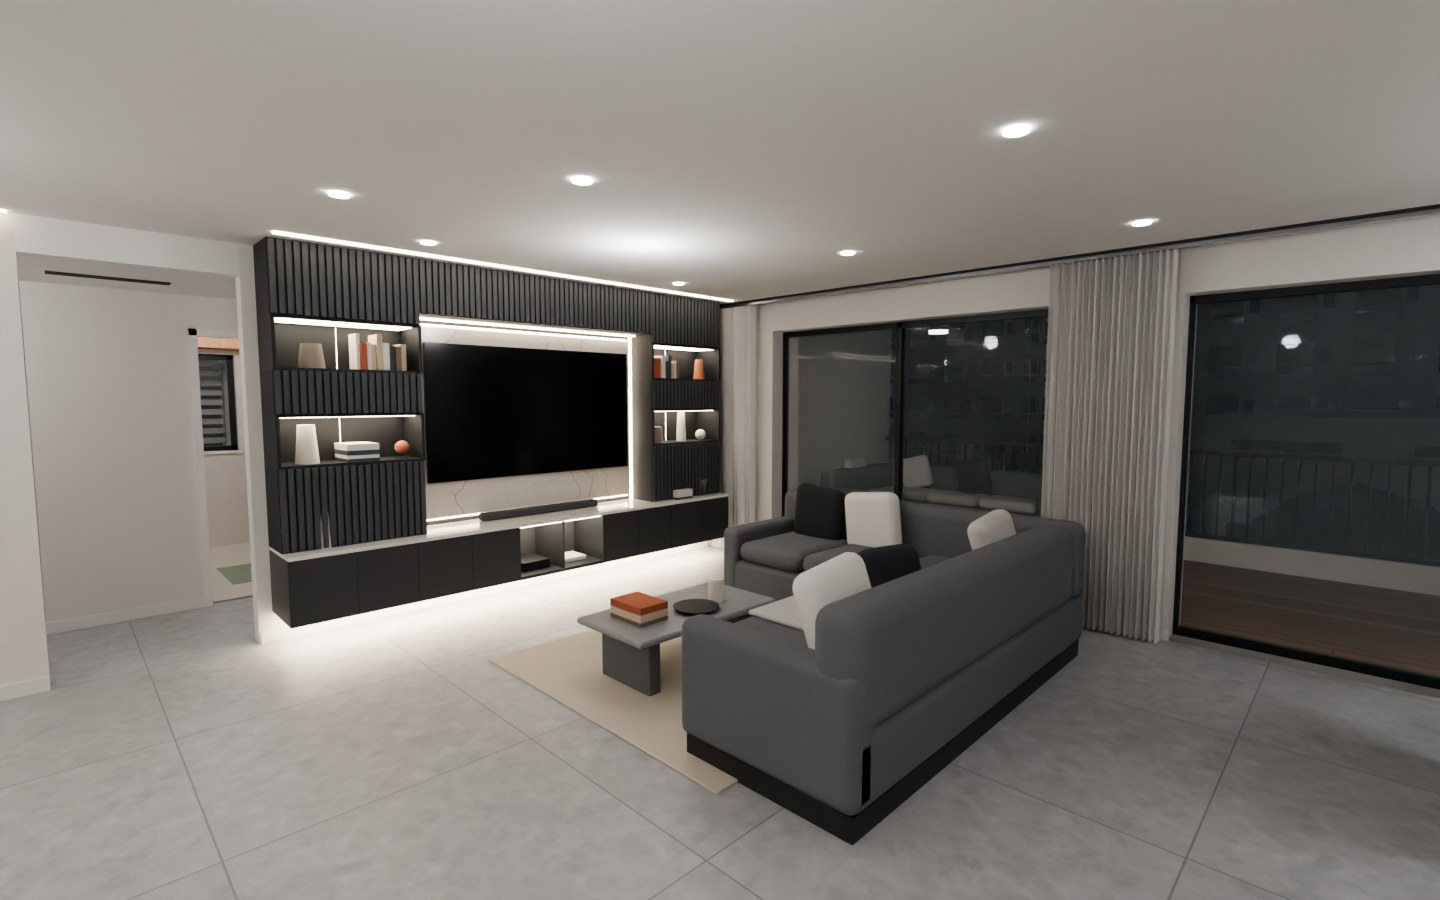
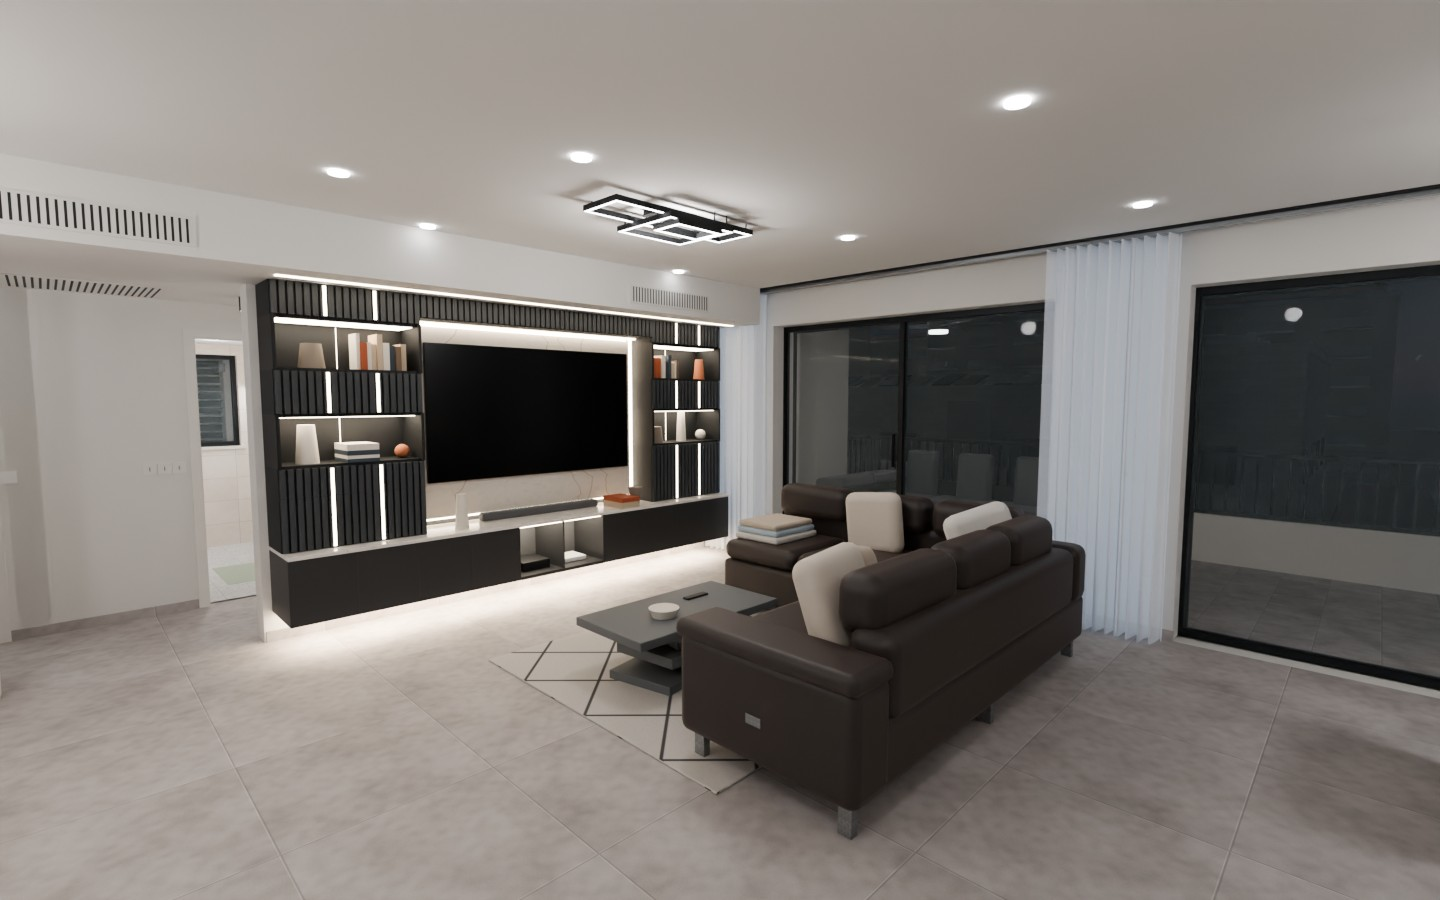
Step 4: the 17 gallery images re-rendered from the current model (Cycles on the GPU, 128 spp, render_gallery.sh). The export now runs at a desktop viewport: at 800x500 the page built the phone model, so since eed100c no render had the CC0 props (fruit, wine bottle, board, balcony plants) and the tex

diff --git a/sw.js b/sw.js
@@ -1,5 +1,5 @@
 // generated by source/build_site.py: cache-first for static files keyed by content hash; everything else from the network
-const H = {"vendor/three-gpu-pathtracer/LICENSE":"74bd8224737d","vendor/three-gpu-pathtracer/build/index.module.js":"5b790a3f28ee","vendor/three-mesh-bvh/LICENSE":"d2310a5deea3","vendor/three-mesh-bvh/build/index.module.js":"b268717d0af1","vendor/three/LICENSE":"ab826c12f698","vendor/three/examples/jsm/renderers/CSS2DRenderer.js":"00cd8d73e341","vendor/three/examples/jsm/environments/RoomEnvironment.js":"597308a04996","vendor/three/examples/jsm/objects/Reflector.js":"cc0246fa7854","vendor/three/examples/jsm/utils/BufferGeometryUtils.js":"75fd8f4da96a","vendor/three/examples/jsm/math/SimplexNoise.js":"0faaa3788e6d","vendor/three/examples/jsm/libs/meshopt_decoder.module.js":"56d88825d199","vendor/three/examples/jsm/controls/OrbitControls.js":"790917328111","vendor/three/examples/jsm/postprocessing/GTAOPass.js":"2b3e96e10e1b","vendor/three/examples/jsm/postprocessing/Pass.js":"7d7a080e24e1","vendor/three/examples/jsm/postprocessing/UnrealBloomPass.js":"5658041de131","vendor/three/examples/jsm/postprocessing/MaskPass.js":"073ba17b3f57","vendor/three/examples/jsm/postprocessing/EffectComposer.js":"4fb2e598b5e6","vendor/three/examples/jsm/postprocessing/TAARenderPass.js":"2eea8de58a95","vendor/three/examples/jsm/postprocessing/ShaderPass.js":"5e27d49c3017","vendor/three/examples/jsm/postprocessing/OutputPass.js":"11b8fb9b6f2f","vendor/three/examples/jsm/postprocessing/SSAARenderPass.js":"3548de407121","vendor/three/examples/jsm/postprocessing/RenderPass.js":"3dc862c72efc","vendor/three/examples/jsm/geometries/RoundedBoxGeometry.js":"8b62a048fa9d","vendor/three/examples/jsm/shaders/GTAOShader.js":"608dedcdcb8b","vendor/three/examples/jsm/shaders/PoissonDenoiseShader.js":"c460ee80281e","vendor/three/examples/jsm/shaders/OutputShader.js":"e3ec02c31a36","vendor/three/examples/jsm/shaders/CopyShader.js":"4a948e9acb0f","vendor/three/examples/jsm/shaders/LuminosityHighPassShader.js":"2aa7448714af","vendor/three/examples/jsm/loaders/GLTFLoader.js":"be14318c78a2","vendor/three/examples/jsm/lights/RectAreaLightUniformsLib.js":"b304570e6be7","vendor/three/build/three.module.js":"23f5aba79bae","vendor/three/build/three.module.min.js":"2992ecd75d9d","assets/tex/asphalt_02/nor.webp":"57acd13935cf","assets/tex/asphalt_02/rough.webp":"94d129c2a8a4","assets/tex/asphalt_02/diff.webp":"21682d627a6e","assets/tex/oak_veneer_01/nor.webp":"d250eab25281","assets/tex/oak_veneer_01/rough.webp":"c89c2047b903","assets/tex/oak_veneer_01/diff.webp":"bc321c1ded90","assets/tex/Marble021/nor.webp":"41fb0dc1df22","assets/tex/Marble021/rough.webp":"ff2a27fae471","assets/tex/Leather026/nor.webp":"2d8497712ba8","assets/tex/Leather026/rough.webp":"da0a2b06b44b","assets/tex/rough_linen/nor.webp":"d8b309989522","assets/tex/rough_linen/rough.webp":"01fa33d31d89","assets/tex/caban/nor.webp":"74c5877a9e06","assets/tex/caban/rough.webp":"ed2abcbaba34","assets/tex/laminate_floor_02/nor.webp":"76b402f339a2","assets/tex/laminate_floor_02/rough.webp":"efcceccd5e8b","assets/tex/laminate_floor_02/diff.webp":"a6ae455a3ec3","assets/tex/grass_ground/nor.webp":"99b30f705845","assets/tex/grass_ground/rough.webp":"ce392ba36712","assets/tex/grass_ground/diff.webp":"6d566cdd70fb","assets/tex/interlocking_concrete_pavers/nor.webp":"118e4800663e","assets/tex/interlocking_concrete_pavers/rough.webp":"82cda1b06619","assets/tex/interlocking_concrete_pavers/diff.webp":"bf2279b80dbd","assets/tex/white_stucco/nor.webp":"c8527ee55415","assets/tex/white_stucco/rough.webp":"035f228066a6","assets/tex/Metal009/nor.webp":"f3e9c0468a4c","assets/tex/Metal009/rough.webp":"438e03247169","assets/tex/park_dirt/nor.webp":"205e791460f0","assets/tex/park_dirt/rough.webp":"4cfe7c260d1f","assets/tex/park_dirt/diff.webp":"791bda443660","assets/sky/day.webp":"98a7ec48ac5d","assets/sky/eve.webp":"b1a6b9a6f386","assets/trees/jacaranda_tree.webp":"4e5f3da388f3","assets/trees/tree_small_02.webp":"055bf3c39707","assets/trees/island_tree_02.webp":"1354226f5b9d","assets/models/lemon.glb":"18a1568358d6","assets/models/potted_plant_02.glb":"8bcd18d7e520","assets/models/food_pomegranate_01.glb":"fd949bf5f9c9","assets/models/potted_plant_01.glb":"69a7764cc185","assets/models/wine_bottle_bordeaux.glb":"5ab533e83300","assets/models/wooden_cutting_board.glb":"308db2e872c7","assets/models/food_apple_01.glb":"551971bec730","assets/env/liv-eve.webp":"0e28e5a1f238","assets/env/fbath-eve.webp":"710573c4720c","assets/env/mbath-eve.webp":"88520eaa7a64","assets/env/mbath-day.webp":"ed15dc2202ef","assets/env/fbath-day.webp":"e64af343403e","assets/env/liv-day.webp":"03148400f469","lm/natural-0-965e2e19.webp":"d8ee12319651","lm/lamps-0-adc1a820.webp":"15c3ccff581e","lm/uv2-151d7aa9.bin.gz":"e16562f09a20","lm/ao-0-9ef7c8b3.webp":"dc5c40ad7783","lm/manifest.json":"6d040e6d681e","renders/room2-day.jpg":"5218d1edc861","renders/kitchen2-day.jpg":"563892a4d78f","renders/kitchen3-day.jpg":"4c8c31df7d2b","renders/entry-eve.jpg":"2e2f1354cff8","renders/room3-day.jpg":"ba3069679b61","renders/master-day.jpg":"07569134b6a9","renders/hall-day.jpg":"7c1a02345ecb","renders/balcony2-day.jpg":"d5b5ce53f1dc","renders/entry-day.jpg":"400e43ab5c4c","renders/balcony-day.jpg":"57c0eef34ed8","renders/view-day.jpg":"f4237245c7dc","renders/storage-day.jpg":"ea98faac3bc6","renders/kitchen-day.jpg":"edaed2872c1b","renders/bath2-day.jpg":"e101305c8e31","renders/tvwall-eve.jpg":"a9f95398d3dc","renders/shower-day.jpg":"7864e6cf770f","renders/island-day.jpg":"7c275360fced","favicon.svg":"b249d346bd5c","favicon-32.png":"05060998fc53","apple-touch-icon.png":"ad5bc8e34949","icon-192.png":"367ef260d3a7","icon-512.png":"c616c25e408a","icon-512-maskable.png":"c74b641deaf8","og.jpg":"9a85a31343c7"};
+const H = {"vendor/three-gpu-pathtracer/LICENSE":"74bd8224737d","vendor/three-gpu-pathtracer/build/index.module.js":"5b790a3f28ee","vendor/three-mesh-bvh/LICENSE":"d2310a5deea3","vendor/three-mesh-bvh/build/index.module.js":"b268717d0af1","vendor/three/LICENSE":"ab826c12f698","vendor/three/examples/jsm/renderers/CSS2DRenderer.js":"00cd8d73e341","vendor/three/examples/jsm/environments/RoomEnvironment.js":"597308a04996","vendor/three/examples/jsm/objects/Reflector.js":"cc0246fa7854","vendor/three/examples/jsm/utils/BufferGeometryUtils.js":"75fd8f4da96a","vendor/three/examples/jsm/math/SimplexNoise.js":"0faaa3788e6d","vendor/three/examples/jsm/libs/meshopt_decoder.module.js":"56d88825d199","vendor/three/examples/jsm/controls/OrbitControls.js":"790917328111","vendor/three/examples/jsm/postprocessing/GTAOPass.js":"2b3e96e10e1b","vendor/three/examples/jsm/postprocessing/Pass.js":"7d7a080e24e1","vendor/three/examples/jsm/postprocessing/UnrealBloomPass.js":"5658041de131","vendor/three/examples/jsm/postprocessing/MaskPass.js":"073ba17b3f57","vendor/three/examples/jsm/postprocessing/EffectComposer.js":"4fb2e598b5e6","vendor/three/examples/jsm/postprocessing/TAARenderPass.js":"2eea8de58a95","vendor/three/examples/jsm/postprocessing/ShaderPass.js":"5e27d49c3017","vendor/three/examples/jsm/postprocessing/OutputPass.js":"11b8fb9b6f2f","vendor/three/examples/jsm/postprocessing/SSAARenderPass.js":"3548de407121","vendor/three/examples/jsm/postprocessing/RenderPass.js":"3dc862c72efc","vendor/three/examples/jsm/geometries/RoundedBoxGeometry.js":"8b62a048fa9d","vendor/three/examples/jsm/shaders/GTAOShader.js":"608dedcdcb8b","vendor/three/examples/jsm/shaders/PoissonDenoiseShader.js":"c460ee80281e","vendor/three/examples/jsm/shaders/OutputShader.js":"e3ec02c31a36","vendor/three/examples/jsm/shaders/CopyShader.js":"4a948e9acb0f","vendor/three/examples/jsm/shaders/LuminosityHighPassShader.js":"2aa7448714af","vendor/three/examples/jsm/loaders/GLTFLoader.js":"be14318c78a2","vendor/three/examples/jsm/lights/RectAreaLightUniformsLib.js":"b304570e6be7","vendor/three/build/three.module.js":"23f5aba79bae","vendor/three/build/three.module.min.js":"2992ecd75d9d","assets/tex/asphalt_02/nor.webp":"57acd13935cf","assets/tex/asphalt_02/rough.webp":"94d129c2a8a4","assets/tex/asphalt_02/diff.webp":"21682d627a6e","assets/tex/oak_veneer_01/nor.webp":"d250eab25281","assets/tex/oak_veneer_01/rough.webp":"c89c2047b903","assets/tex/oak_veneer_01/diff.webp":"bc321c1ded90","assets/tex/Marble021/nor.webp":"41fb0dc1df22","assets/tex/Marble021/rough.webp":"ff2a27fae471","assets/tex/Leather026/nor.webp":"2d8497712ba8","assets/tex/Leather026/rough.webp":"da0a2b06b44b","assets/tex/rough_linen/nor.webp":"d8b309989522","assets/tex/rough_linen/rough.webp":"01fa33d31d89","assets/tex/caban/nor.webp":"74c5877a9e06","assets/tex/caban/rough.webp":"ed2abcbaba34","assets/tex/laminate_floor_02/nor.webp":"76b402f339a2","assets/tex/laminate_floor_02/rough.webp":"efcceccd5e8b","assets/tex/laminate_floor_02/diff.webp":"a6ae455a3ec3","assets/tex/grass_ground/nor.webp":"99b30f705845","assets/tex/grass_ground/rough.webp":"ce392ba36712","assets/tex/grass_ground/diff.webp":"6d566cdd70fb","assets/tex/interlocking_concrete_pavers/nor.webp":"118e4800663e","assets/tex/interlocking_concrete_pavers/rough.webp":"82cda1b06619","assets/tex/interlocking_concrete_pavers/diff.webp":"bf2279b80dbd","assets/tex/white_stucco/nor.webp":"c8527ee55415","assets/tex/white_stucco/rough.webp":"035f228066a6","assets/tex/Metal009/nor.webp":"f3e9c0468a4c","assets/tex/Metal009/rough.webp":"438e03247169","assets/tex/park_dirt/nor.webp":"205e791460f0","assets/tex/park_dirt/rough.webp":"4cfe7c260d1f","assets/tex/park_dirt/diff.webp":"791bda443660","assets/sky/day.webp":"98a7ec48ac5d","assets/sky/eve.webp":"b1a6b9a6f386","assets/trees/jacaranda_tree.webp":"4e5f3da388f3","assets/trees/tree_small_02.webp":"055bf3c39707","assets/trees/island_tree_02.webp":"1354226f5b9d","assets/models/lemon.glb":"18a1568358d6","assets/models/potted_plant_02.glb":"8bcd18d7e520","assets/models/food_pomegranate_01.glb":"fd949bf5f9c9","assets/models/potted_plant_01.glb":"69a7764cc185","assets/models/wine_bottle_bordeaux.glb":"5ab533e83300","assets/models/wooden_cutting_board.glb":"308db2e872c7","assets/models/food_apple_01.glb":"551971bec730","assets/env/liv-eve.webp":"0e28e5a1f238","assets/env/fbath-eve.webp":"710573c4720c","assets/env/mbath-eve.webp":"88520eaa7a64","assets/env/mbath-day.webp":"ed15dc2202ef","assets/env/fbath-day.webp":"e64af343403e","assets/env/liv-day.webp":"03148400f469","lm/natural-0-965e2e19.webp":"d8ee12319651","lm/lamps-0-adc1a820.webp":"15c3ccff581e","lm/uv2-151d7aa9.bin.gz":"e16562f09a20","lm/ao-0-9ef7c8b3.webp":"dc5c40ad7783","lm/manifest.json":"6d040e6d681e","renders/room2-day.jpg":"d832a76329e2","renders/kitchen2-day.jpg":"b0d44f20a7c8","renders/kitchen3-day.jpg":"12e5d1af8dc5","renders/entry-eve.jpg":"35c119c4048a","renders/room3-day.jpg":"b4b21acec1a5","renders/master-day.jpg":"0eee0fc1d30e","renders/hall-day.jpg":"94db10da7ff3","renders/balcony2-day.jpg":"e9b9989b2f5f","renders/entry-day.jpg":"13931e0f9c00","renders/balcony-day.jpg":"1ff5c80f5e08","renders/view-day.jpg":"90be41e072df","renders/storage-day.jpg":"176d5a206997","renders/kitchen-day.jpg":"2359b9bb1f84","renders/bath2-day.jpg":"44926bcdd221","renders/tvwall-eve.jpg":"47c41bac0b8d","renders/shower-day.jpg":"cd22a4685315","renders/island-day.jpg":"ad3b9ccb6f21","favicon.svg":"b249d346bd5c","favicon-32.png":"05060998fc53","apple-touch-icon.png":"ad5bc8e34949","icon-192.png":"367ef260d3a7","icon-512.png":"c616c25e408a","icon-512-maskable.png":"c74b641deaf8","og.jpg":"9a85a31343c7"};
 const CACHE = 'ali-static';
 self.addEventListener('install', () => self.skipWaiting());
 self.addEventListener('activate', e => e.waitUntil((async () => {

diff --git a/index.html b/index.html
@@ -3584,7 +3584,7 @@ document.getElementById('loading').hidden = true;
 requestAnimationFrame(tick);
 if ('serviceWorker' in navigator && location.protocol === 'https:') navigator.serviceWorker.register('sw.js').catch(() => { });   // cache for return visits (sw.js is written by build_site.py)
 LM.ready = LM.load();
-window.__app = { FIX, fixSet, fixState, fixRoot, LM, contacts, fanGroup, root, ceilGroup, outside, doorGroup, curtGroup, setDoors, setCurtains, mat, warm, sun, THREE, setPT, getPT: () => pt, ptOn: () => ptOn, setEve: v => { isEve = v; }, renderOnce: frame, setView, setMode, setDims, setCeil, setHQ, setPanel, views, renderer, scene, camera, controls, mirrors, CER, CER_SPACES, cerSet, cerReset, cerText, cerState };
+window.__app = { FIX, fixSet, fixState, fixRoot, propGroup, procPlants, procFruit, LM, contacts, fanGroup, root, ceilGroup, outside, doorGroup, curtGroup, setDoors, setCurtains, mat, warm, sun, THREE, setPT, getPT: () => pt, ptOn: () => ptOn, setEve: v => { isEve = v; }, renderOnce: frame, setView, setMode, setDims, setCeil, setHQ, setPanel, views, renderer, scene, camera, controls, mirrors, CER, CER_SPACES, cerSet, cerReset, cerText, cerState };
 </script>
 
 </body>

diff --git a/source/salon.html b/source/salon.html
@@ -3527,5 +3527,5 @@ document.getElementById('loading').hidden = true;
 requestAnimationFrame(tick);
 if ('serviceWorker' in navigator && location.protocol === 'https:') navigator.serviceWorker.register('sw.js').catch(() => { });   // cache for return visits (sw.js is written by build_site.py)
 LM.ready = LM.load();
-window.__app = { FIX, fixSet, fixState, fixRoot, LM, contacts, fanGroup, root, ceilGroup, outside, doorGroup, curtGroup, setDoors, setCurtains, mat, warm, sun, THREE, setPT, getPT: () => pt, ptOn: () => ptOn, setEve: v => { isEve = v; }, renderOnce: frame, setView, setMode, setDims, setCeil, setHQ, setPanel, views, renderer, scene, camera, controls, mirrors, CER, CER_SPACES, cerSet, cerReset, cerText, cerState };
+window.__app = { FIX, fixSet, fixState, fixRoot, propGroup, procPlants, procFruit, LM, contacts, fanGroup, root, ceilGroup, outside, doorGroup, curtGroup, setDoors, setCurtains, mat, warm, sun, THREE, setPT, getPT: () => pt, ptOn: () => ptOn, setEve: v => { isEve = v; }, renderOnce: frame, setView, setMode, setDims, setCeil, setHQ, setPanel, views, renderer, scene, camera, controls, mirrors, CER, CER_SPACES, cerSet, cerReset, cerText, cerState };
 </script>
